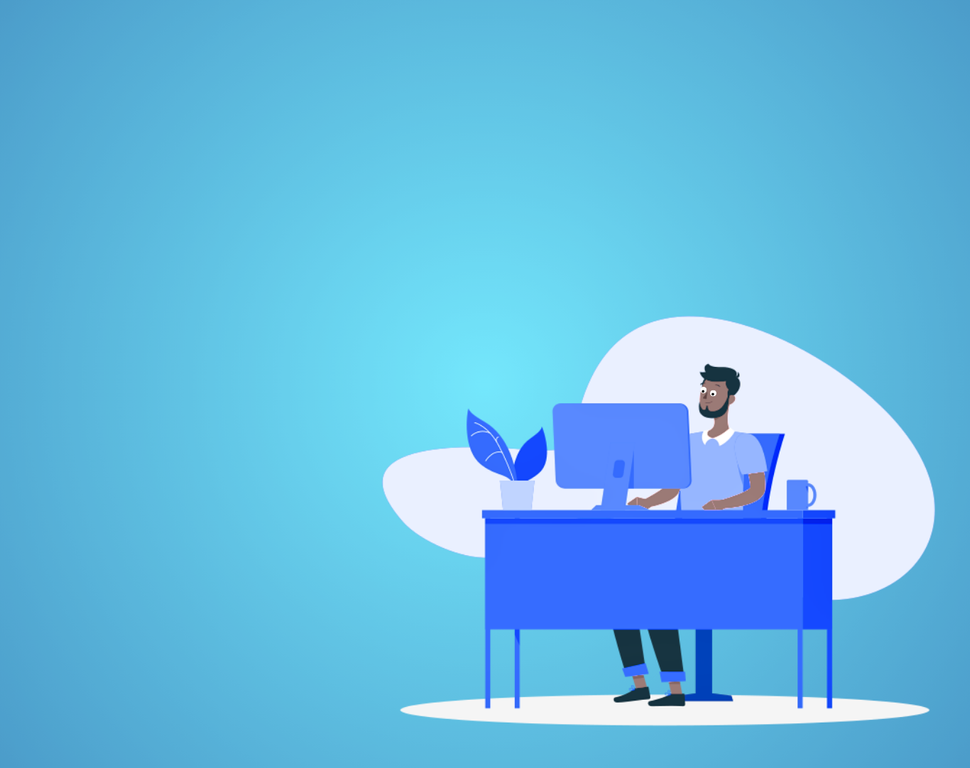
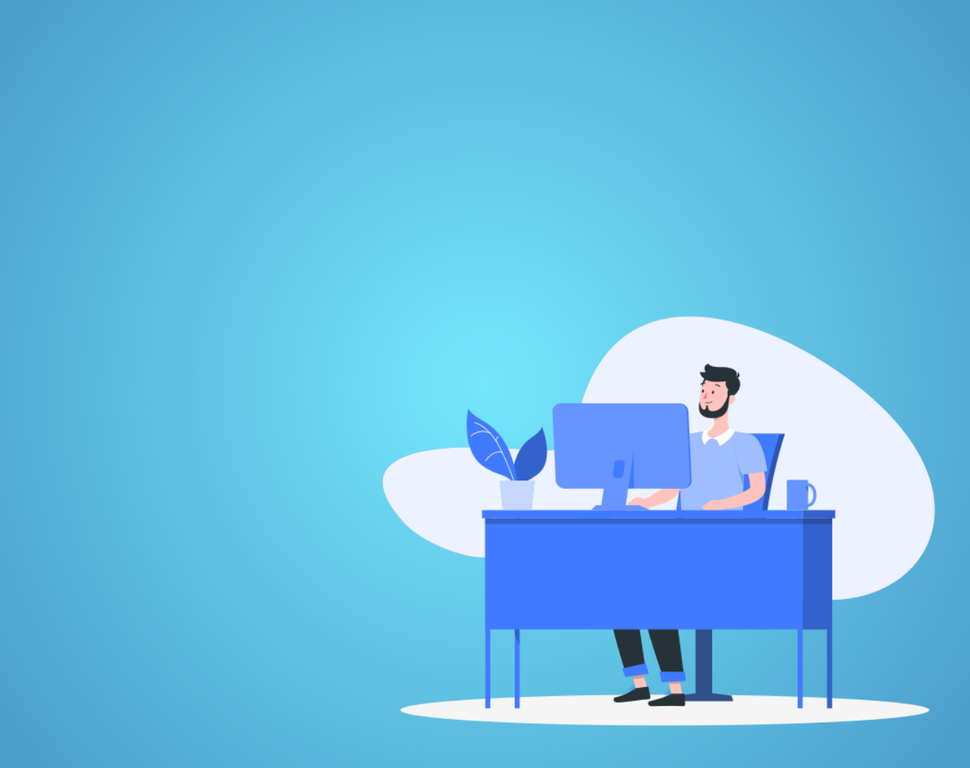
modified:   _config.yml 	modified:   assets/css/theme.scss 	modified:   assets/images/home.png 	modified:   index.html

diff --git a/index.html b/index.html
@@ -15,7 +15,7 @@ background: '/img/bg-index.jpg'
       <a href="{{site.baseurl}}/about" class="btn btn-dark text-white px-5 btn-lg">About me</a>
     </div>
     <div class="col-md-6 text-right pl-0 pl-lg-4">
-      <img class="intro" height="500" src="{{site.baseurl}}/assets/images/home.png">      
+      <img class="intro" height="500" src="{{site.baseurl}}/assets/images/intro.svg">      
     </div>
   </div>
 </div>

diff --git a/assets/css/theme.scss b/assets/css/theme.scss
@@ -135,7 +135,7 @@ small, .small {
 /* Pages
 ================================================== */
 .hero {
-    background: #fdd93d;
+    background: #38b5ff;
     padding: 5rem 5rem;
 }
 
